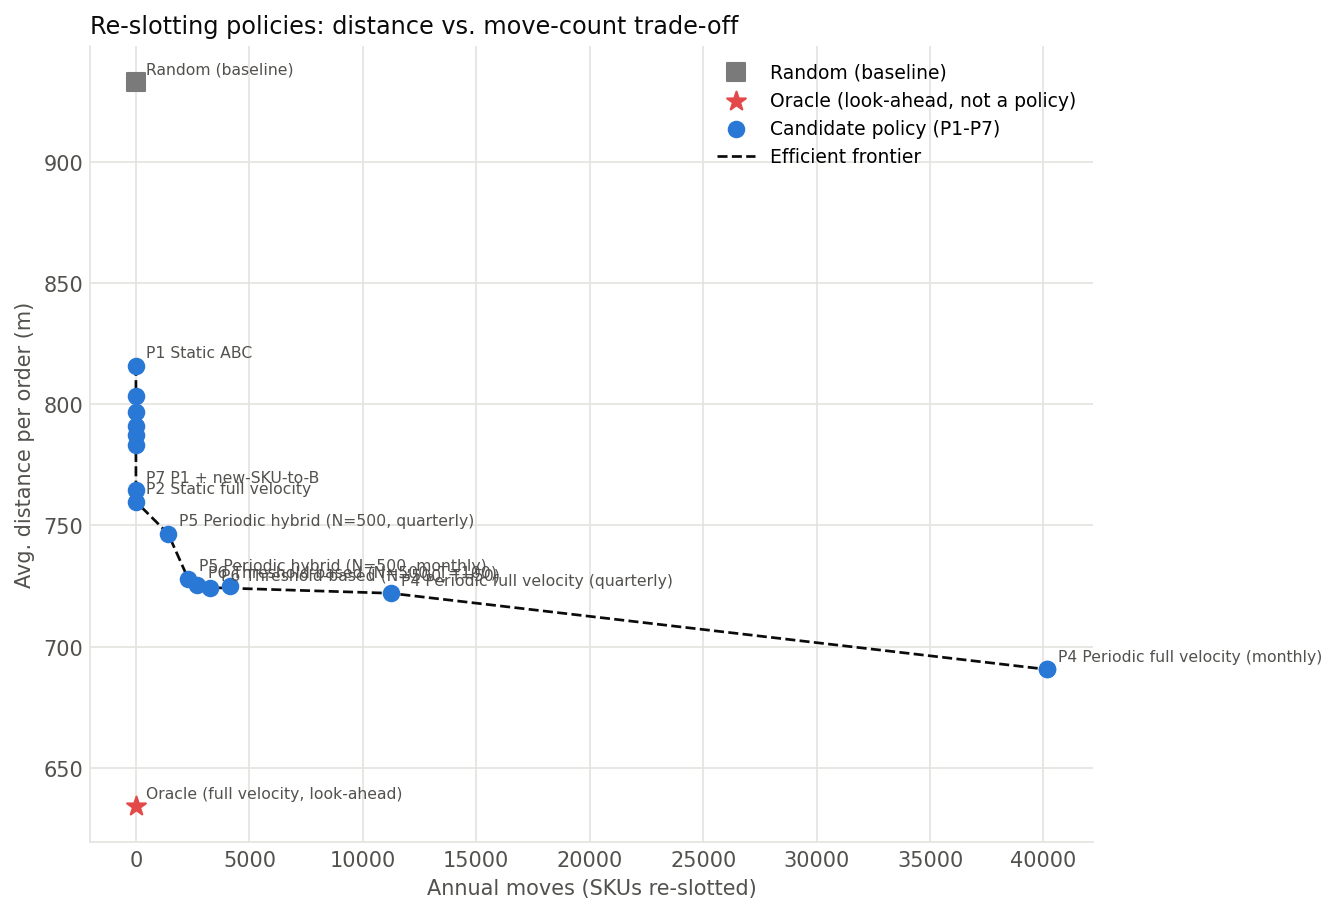
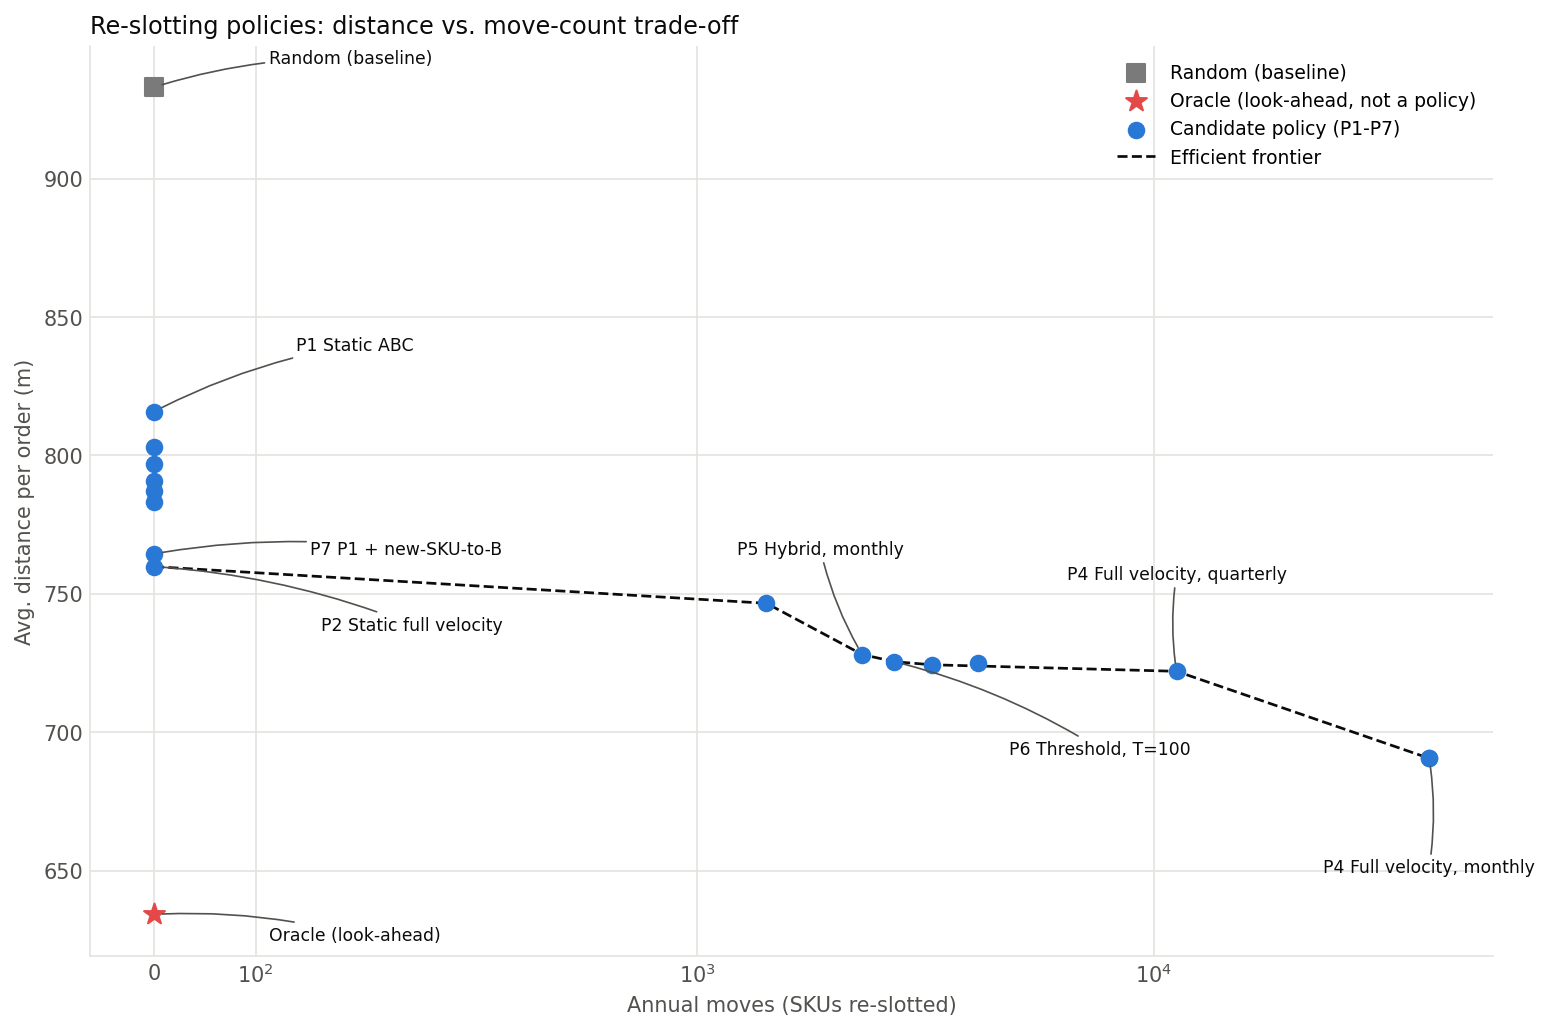
Fix label overlap and frontier in re-slotting trade-off chart

diff --git a/src/06_reslotting_policies.py b/src/06_reslotting_policies.py
@@ -308,8 +308,14 @@ def summarize(rows: pd.DataFrame) -> pd.DataFrame:
 # Figure: distance vs. moves trade-off, with the Pareto frontier
 # ----------------------------------------------------------------------------
 def pareto_frontier(points: pd.DataFrame) -> pd.DataFrame:
-    """Points (fewer moves, shorter distance = better) that are not dominated by any other point."""
-    pts = points.sort_values("annual_moves")
+    """Points (fewer moves, shorter distance = better) that are not dominated by any other point.
+
+    Ties in annual_moves (e.g. every static policy sits at 0) must be broken by distance ascending
+    before the running-min sweep, otherwise whichever tied point happens to sort first gets kept
+    regardless of whether a cheaper point at the SAME move count exists (e.g. P1/P3/P7 all sit at
+    0 moves alongside P2, which has the shortest distance there and should be the only one kept).
+    """
+    pts = points.sort_values(["annual_moves", "avg_distance_per_order_m"], kind="mergesort")
     best_so_far = np.inf
     keep = []
     for _, row in pts.iterrows():
@@ -321,28 +327,56 @@ def pareto_frontier(points: pd.DataFrame) -> pd.DataFrame:
     return pts[keep]
 
 
+# Only these 9 points get a text label (everything else - P3's N grid, P5 quarterly, P6 T=25/50 -
+# stays plotted as a dot, unlabelled). Each entry is (dx, dy) in offset points from the point, plus
+# horizontal/vertical text alignment, hand-tuned against the rendered PNG so no label overlaps
+# another label or a data point (see the module docstring / methodology for the rationale).
+LABEL_SPEC = {
+    ("Random (baseline)", ""): ("Random (baseline)", 55, 14, "left", "center"),
+    ("Oracle (full velocity, look-ahead)", ""): ("Oracle (look-ahead)", 55, -10, "left", "center"),
+    ("P1 Static ABC", ""): ("P1 Static ABC", 68, 32, "left", "center"),
+    ("P7 P1 + new-SKU-to-B", ""): ("P7 P1 + new-SKU-to-B", 75, 2, "left", "center"),
+    ("P2 Static full velocity", ""): ("P2 Static full velocity", 80, -28, "left", "center"),
+    ("P5 Periodic hybrid", "N=500, monthly"): ("P5 Hybrid, monthly", -20, 46, "center", "bottom"),
+    ("P6 Threshold-based", "N=500, T=100"): ("P6 Threshold, T=100", 55, -42, "left", "center"),
+    ("P4 Periodic full velocity", "quarterly"): ("P4 Full velocity, quarterly", 0, 42, "center", "bottom"),
+    ("P4 Periodic full velocity", "monthly"): ("P4 Full velocity, monthly", 0, -48, "center", "top"),
+}
+
+
 def plot_tradeoff(results: pd.DataFrame, path: Path) -> None:
     policies = results[results["role"] == "policy"]
-    fig, ax = plt.subplots(figsize=(9, 6.2))
-    for role, color, marker in (("reference", ROLE_COLOR["reference"], "s"), ("oracle", ROLE_COLOR["oracle"], "*")):
-        sub = results[results["role"] == role]
-        ax.scatter(sub["annual_moves"], sub["avg_distance_per_order_m"], color=color, marker=marker,
-                  s=90 if role == "oracle" else 70, zorder=3, label=("Random (baseline)" if role == "reference" else "Oracle (look-ahead, not a policy)"))
+    reference = results[results["role"] == "reference"]
+    oracle = results[results["role"] == "oracle"]
+
+    fig, ax = plt.subplots(figsize=(10.5, 7))
+    # 0-40,161 moves on a linear axis crushes the 1,419-4,131 throttled cluster into <10% of the
+    # plot width. symlog spaces that cluster out by relative (multiplicative) difference instead,
+    # without needing a second embedded coordinate system (an inset would have to fit its own
+    # dots, labels and leader lines inside a small box, risking the same overlap problem again).
+    # linthresh keeps 0 (every static policy) on a plain linear segment near the origin.
+    ax.set_xscale("symlog", linthresh=300, linscale=0.6)
+
+    ax.scatter(reference["annual_moves"], reference["avg_distance_per_order_m"], color=ROLE_COLOR["reference"],
+              marker="s", s=70, zorder=3, label="Random (baseline)")
+    ax.scatter(oracle["annual_moves"], oracle["avg_distance_per_order_m"], color=ROLE_COLOR["oracle"],
+              marker="*", s=110, zorder=3, label="Oracle (look-ahead, not a policy)")
     ax.scatter(policies["annual_moves"], policies["avg_distance_per_order_m"], color=ROLE_COLOR["policy"],
               s=55, zorder=3, label="Candidate policy (P1-P7)")
 
-    frontier = pareto_frontier(pd.concat([policies, results[results["role"] == "reference"]]))
+    frontier = pareto_frontier(pd.concat([policies, reference]))
     ax.plot(frontier["annual_moves"], frontier["avg_distance_per_order_m"], color=INK, lw=1.3,
            ls="--", zorder=2, label="Efficient frontier")
 
-    # Label only the efficient-frontier points plus Random/Oracle - labelling every dominated
-    # point (mostly the static N=0..500 cluster near x=0) makes the chart unreadable.
-    to_label = pd.concat([frontier, results[results["role"].isin(["reference", "oracle"])]]).drop_duplicates(
-        subset=["policy", "params"])
-    for _, row in to_label.iterrows():
-        ax.annotate(row["policy"] if row["params"] == "" else f"{row['policy']} ({row['params']})",
-                   (row["annual_moves"], row["avg_distance_per_order_m"]), fontsize=7.5, color=INK_MUTED,
-                   xytext=(5, 4), textcoords="offset points")
+    for _, row in results.iterrows():
+        spec = LABEL_SPEC.get((row["policy"], row["params"]))
+        if spec is None:
+            continue
+        text, dx, dy, ha, va = spec
+        ax.annotate(text, xy=(row["annual_moves"], row["avg_distance_per_order_m"]),
+                   xytext=(dx, dy), textcoords="offset points", fontsize=8.3, color=INK, ha=ha, va=va,
+                   arrowprops=dict(arrowstyle="-", color=INK_MUTED, lw=0.8, shrinkA=0, shrinkB=4,
+                                   connectionstyle="arc3,rad=0.08"))
 
     ax.set_xlabel("Annual moves (SKUs re-slotted)", color=INK_MUTED)
     ax.set_ylabel("Avg. distance per order (m)", color=INK_MUTED)
